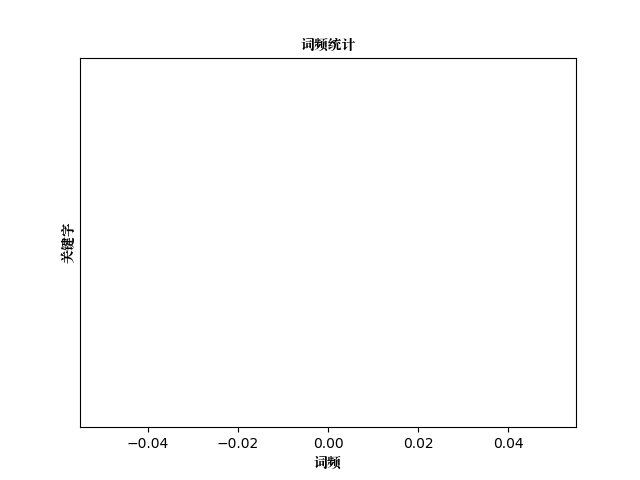
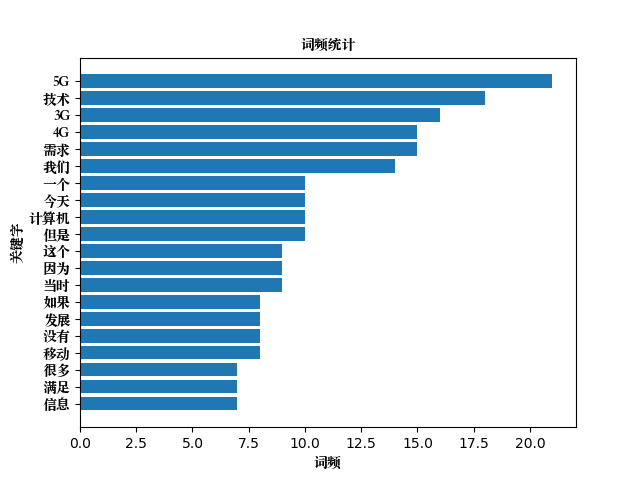
2019.8.10
2019.8.10

diff --git a/Main.py b/Main.py
@@ -1,45 +1,26 @@
 from wxpy import *
 import word_states as ws
 import os
-def main_test():
-    bot = Bot(True)
-    friends = bot.friends()
-    # [<Friend: 游否>]
-    # 确保搜索结果是唯一的，并取出唯一结果
-    
-    @bot.register()
-    def print_others(msg):
-        try:
-            if msg.type == "Sharing":
-                # 存储处理
-                ws.savemsg(msg)
-                # 获取链接中文章的正文
-                context = ws.get_web_article(msg.url)
-                # 获取前20个关键字
-                statis = ws.stats_text_cn(context,20)
-                # 生成并保存图片
-                image = ws.text_graph(statis)
-                # 返回图片给发信息的人
-                msg.reply_image(image)
-                
-                print(msg)
-        except Exception as e:
-            logging.exception(e)    
-    embed()
-
-def test(url):
-    context = ws.get_web_article(url)
-    # 获取前20个关键字
-    statis = ws.stats_text_cn(context,100)
-    image_path = "1.png"
-    # 生成并保存图片
-    ws.text_graph(statis,image_path)
-    # 返回图片给发信息的人
-    # msg.reply_image(image_path)
+# def test():
+bot = Bot(cache_path=True)
+@bot.register([Friend])
+def print_others(msg):
+    try:
+        if msg.type == "Sharing":
+            # 存储处理
+            # ws.savemsg(msg)
+            # 获取链接中文章的正文
+            context = ws.get_web_article(msg.url)
+            # 获取前20个关键字
+            statis = ws.stats_text_cn(context,20)
+            # 生成并保存图片
+            image = ws.text_graph(statis)
+            # 返回图片给发信息的人
+            msg.reply_image(image)
+    except Exception as e:
+        logging.exception(e)    
 
 if __name__ == "__main__":
-    # url = "https://mp.weixin.qq.com/s?__biz=MjM5NjAxOTU4MA==&mid=3009227944&idx=1&sn=e49abe70e3f40dc48dde676f58a6866f&chksm=904620bba731a9ad7fef0e9da20a9a505dbbfc802300bc01f25826611682f6ae4c10091a3866&mpshare=1&scene=1&srcid=&sharer_sharetime=1565316989130&sharer_shareid=a650fe44233d15768e07550857984e6f#rd"
-    # test(url)
-    main_test()
+    bot.join()
 
 

diff --git a/word_states.py b/word_states.py
@@ -1,6 +1,7 @@
 from pyquery import PyQuery
 import requests
-
+import jieba
+from collections import Counter
 
 def get_web_article(url):
     '''
@@ -14,8 +15,7 @@ def get_web_article(url):
     # 返回正文字符串
     return document('#js_content').text()
 
-import jieba
-from collections import Counter
+
 def stats_text_cn(text,count):
     '''
     给出一个文章的内容，返回文章中出现的两个字以上的单词以及频率
@@ -31,11 +31,12 @@ def stats_text_cn(text,count):
             chars.append(item)          
     return Counter(chars).most_common(count)
 
-import matplotlib.pylab as plt
-from matplotlib.font_manager import FontProperties
-# 提取字体对象
-font = FontProperties(fname='/Library/Fonts/Songti.ttc')
+
 def  text_graph(data,image_path = "1.png"):
+    import matplotlib.pylab as plt
+    from matplotlib.font_manager import FontProperties
+    # 提取字体对象
+    font = FontProperties(fname='/Library/Fonts/Songti.ttc')
     '''
     根据传入统计后单词数据生成图片，并保存在给定的路径下面
 
@@ -58,12 +59,16 @@ def  text_graph(data,image_path = "1.png"):
     # plt.show()
     
 
-# url = "https://mp.weixin.qq.com/s?__biz=MjM5NjAxOTU4MA==&mid=3009227944&idx=1&sn=e49abe70e3f40dc48dde676f58a6866f&chksm=904620bba731a9ad7fef0e9da20a9a505dbbfc802300bc01f25826611682f6ae4c10091a3866&mpshare=1&scene=1&srcid=&sharer_sharetime=1565316989130&sharer_shareid=a650fe44233d15768e07550857984e6f#rd"
+# from wxpy import *
+# import pickle
 
-from wxpy import *
-import pickle
-def savemsg(msg):
-    fn = 'a.pkl' 
-    with open(fn, 'w') as f: # open file with write-mode  
-        picklestring = pickle.dump(msg, f)
+# def savemsg(msg):
+#     fn = 'a.pkl' 
+#     with open(fn, 'a') as f: # open file with write-mode  
+#         picklestring = pickle.dump(msg, f)
 
+# txt_file = "txt_file.txt"        
+# with open(txt_file, 'a') as f: # open file with write-mode  
+#     # picklestring = pickle.dump("hello", f)
+#     f.writelines("dhahaha\n")
+    
